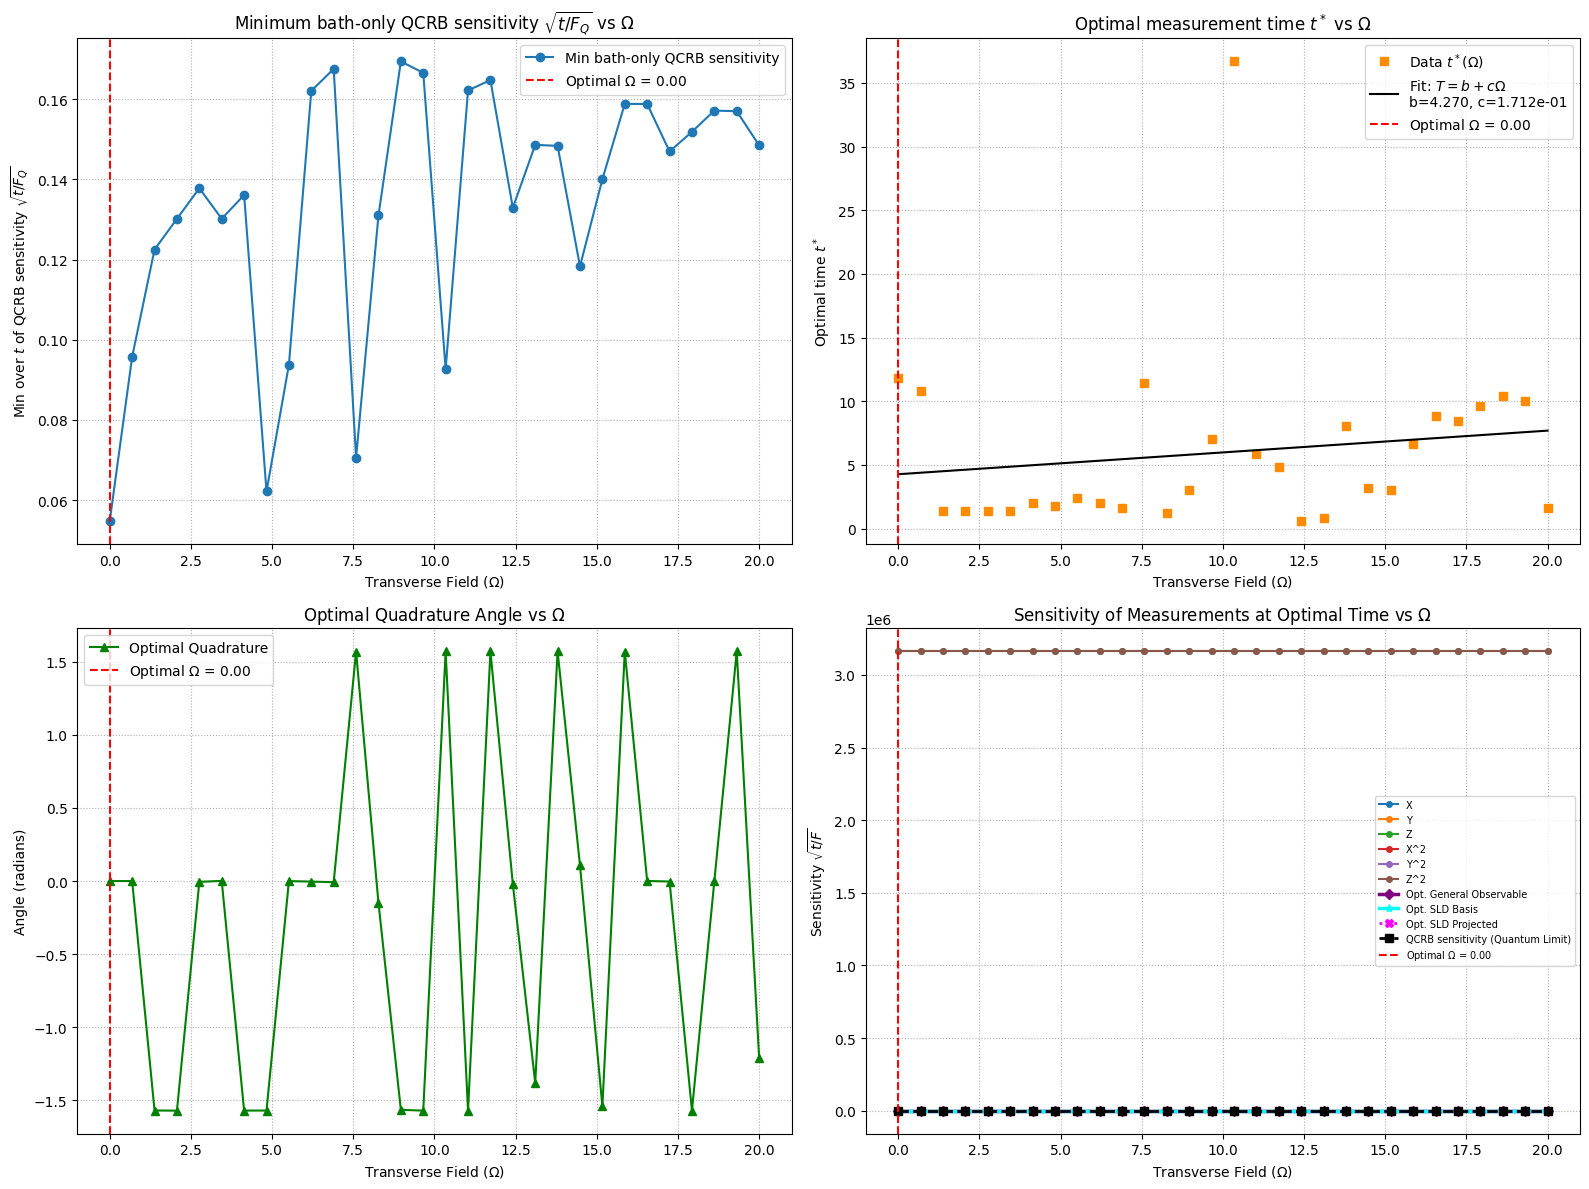
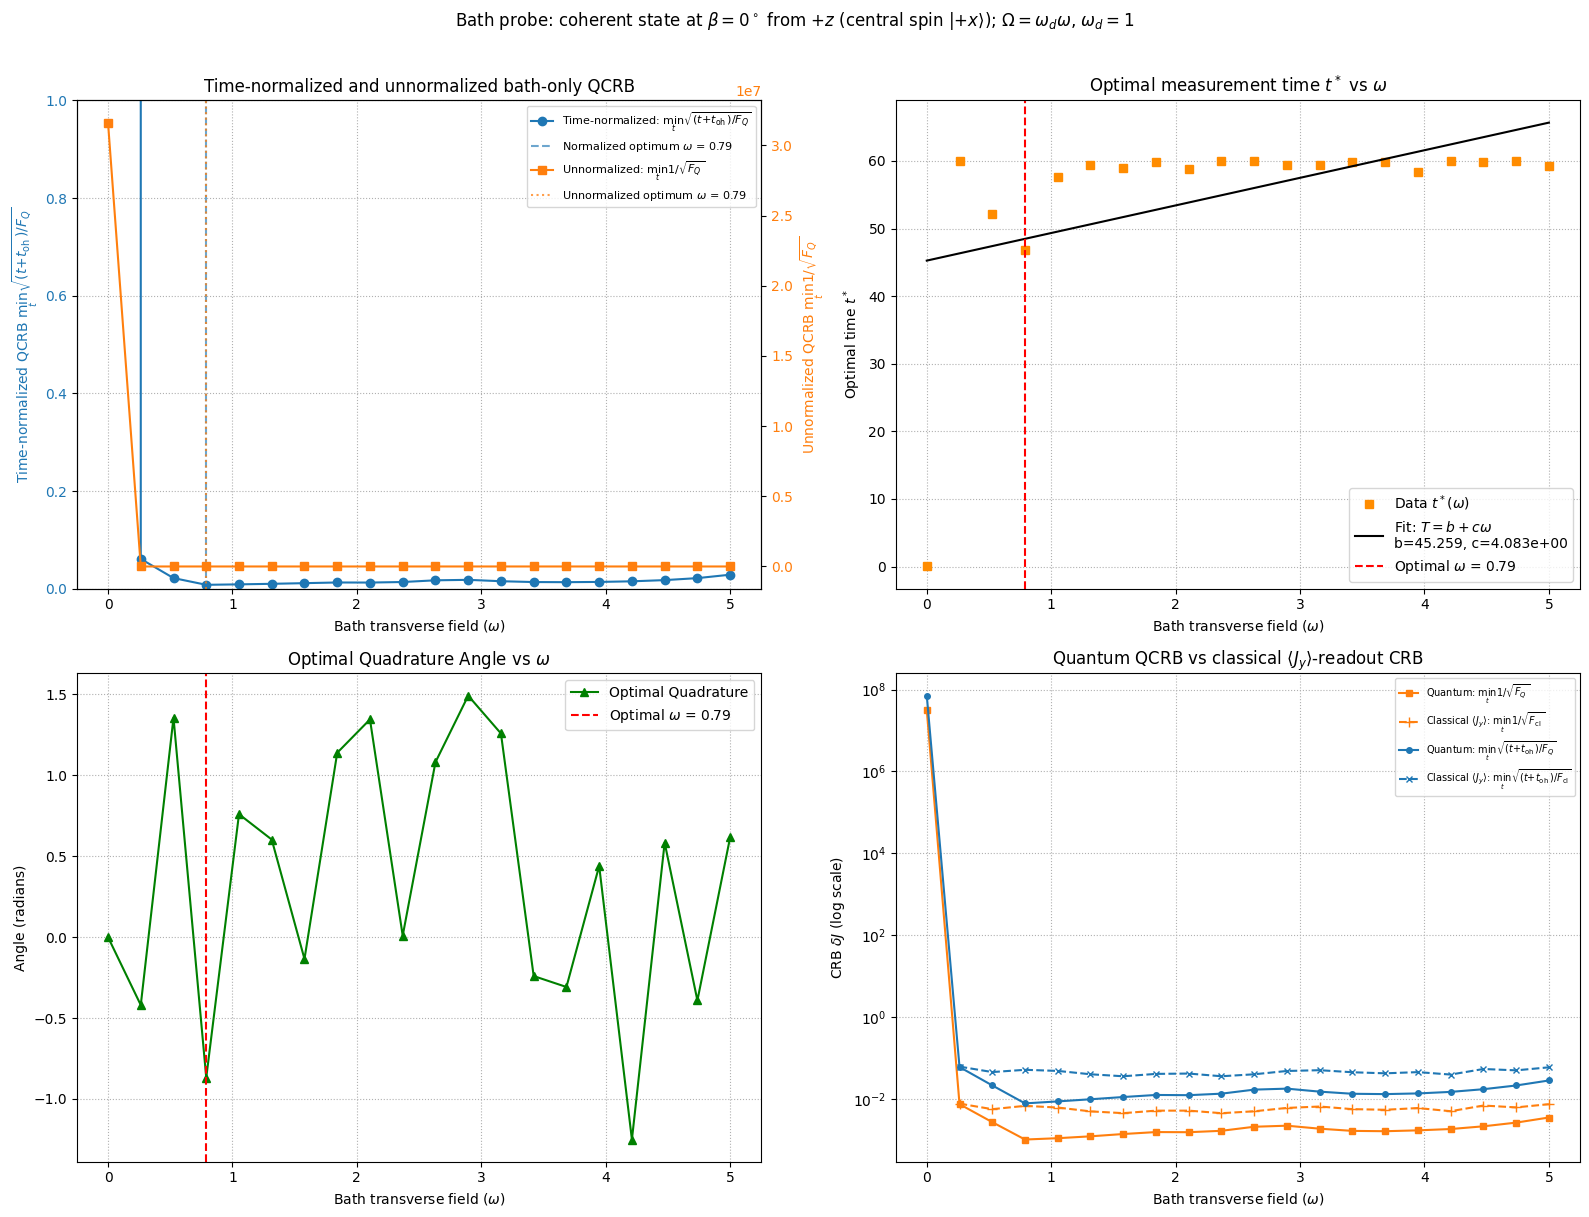
8/5/26

diff --git a/CRB/Analysis_of_analyitical_dicky.py b/CRB/Analysis_of_analyitical_dicky.py
@@ -1,4 +1,11 @@
-"""Bath-only QFI analysis for the collective Dicke-like model."""
+"""Bath-only QFI analysis for the collective Dicke-like model.
+
+The Hamiltonian is
+
+    H = Omega * sigma_x + J * sigma_z * S_z + omega * S_x,
+
+with ``Omega = omega_d * omega`` in this analysis.
+"""
 
 from dataclasses import dataclass
 
@@ -50,21 +57,22 @@ class SimulationConfig(BaseSimulationConfig):
     """
 
     # --- System size and central-spin noise (inherited defaults surfaced) ---
-    N: int = 10            # number of bath spins (bath Hilbert dim = N + 1)
+    N: int = 20            # number of bath spins (bath Hilbert dim = N + 1)
     gamma: float = 0.0    # central-spin sigma_z DEPHASING rate
     beta: float = 0.0     # central-spin sigma_x BIT-FLIP rate -- this is NOISE,
     #                       not the probe angle.  Set to 0.0 for a noiseless run.
 
-    # --- Transverse-drive (Omega_0) sweep ---
+    # --- Bath transverse-drive sweep and central/bath drive ratio ---
+    omega_d: float = 1.0  # Omega / omega; Omega = omega_d * omega
     omega_min: float = 0.0
-    omega_max: float = 40.0
+    omega_max: float = 5.0
     n_omegas: int = 20
 
     # --- Initial bath probe angle ---
     # Spin-N/2 coherent state at polar angle probe_beta_deg from +z (the paper's
     # angle beta; 90 deg = equatorial +x, the prior default).  The central spin
     # stays in |+x>; only the bath is tilted.  THIS field is the probe-angle knob.
-    probe_beta_deg: float = 45.0
+    probe_beta_deg: float = 0
 
     output_figure: str = "bath_only_qfi_analysis.png"
 
@@ -80,6 +88,7 @@ def plot_qfi_results(
     opt_quadrature_angles: np.ndarray,
     output_figure: str,
     probe_beta_deg: float,
+    omega_d: float,
 ) -> None:
     """Plot QCRB minima, optimal times, and optimal quadrature angles."""
     optimal_idx = int(np.argmin(min_qcrb_per_omega))
@@ -105,9 +114,9 @@ def plot_qfi_results(
         linestyle="--",
         color="tab:blue",
         alpha=0.65,
-        label=rf"Normalized optimum $\Omega$ = {optimal_omega:.2f}",
+        label=rf"Normalized optimum $\omega$ = {optimal_omega:.2f}",
     )
-    axes[0].set_xlabel(r"Transverse Field ($\Omega$)")
+    axes[0].set_xlabel(r"Bath transverse field ($\omega$)")
     axes[0].set_ylabel(
         r"Time-normalized QCRB $\min_t\sqrt{(t+t_{\mathrm{oh}})/F_Q}$",
         color="tab:blue",
@@ -129,7 +138,7 @@ def plot_qfi_results(
         color="tab:orange",
         alpha=0.75,
         label=(
-            rf"Unnormalized optimum $\Omega$ = "
+            rf"Unnormalized optimum $\omega$ = "
             f"{unnormalized_optimal_omega:.2f}"
         ),
     )
@@ -152,6 +161,8 @@ def plot_qfi_results(
         [handle.get_label() for handle in first_panel_handles],
         fontsize=8,
     )
+    axes[0].set_ylim(0.0, 1.0)
+
 
     axes[1].plot(
         omega_list,
@@ -159,7 +170,7 @@ def plot_qfi_results(
         marker="s",
         linestyle="",
         color="darkorange",
-        label=r"Data $t^*(\Omega)$",
+        label=r"Data $t^*(\omega)$",
     )
 
     def fit_func(omega: np.ndarray, intercept: float, slope: float) -> np.ndarray:
@@ -181,7 +192,7 @@ def plot_qfi_results(
             linestyle="-",
             color="black",
             label=(
-                r"Fit: $T=b+c\Omega$"
+                r"Fit: $T=b+c\omega$"
                 + "\n"
                 + f"b={intercept:.3f}, c={slope:.3e}"
             ),
@@ -193,11 +204,11 @@ def plot_qfi_results(
         optimal_omega,
         color="red",
         linestyle="--",
-        label=rf"Optimal $\Omega$ = {optimal_omega:.2f}",
+        label=rf"Optimal $\omega$ = {optimal_omega:.2f}",
     )
-    axes[1].set_xlabel(r"Transverse Field ($\Omega$)")
+    axes[1].set_xlabel(r"Bath transverse field ($\omega$)")
     axes[1].set_ylabel(r"Optimal time $t^*$")
-    axes[1].set_title(r"Optimal measurement time $t^*$ vs $\Omega$")
+    axes[1].set_title(r"Optimal measurement time $t^*$ vs $\omega$")
     axes[1].grid(True, linestyle=":")
     axes[1].legend()
 
@@ -213,11 +224,11 @@ def plot_qfi_results(
         optimal_omega,
         color="red",
         linestyle="--",
-        label=rf"Optimal $\Omega$ = {optimal_omega:.2f}",
+        label=rf"Optimal $\omega$ = {optimal_omega:.2f}",
     )
-    axes[2].set_xlabel(r"Transverse Field ($\Omega$)")
+    axes[2].set_xlabel(r"Bath transverse field ($\omega$)")
     axes[2].set_ylabel("Angle (radians)")
-    axes[2].set_title(r"Optimal Quadrature Angle vs $\Omega$")
+    axes[2].set_title(r"Optimal Quadrature Angle vs $\omega$")
     axes[2].grid(True, linestyle=":")
     axes[2].legend()
 
@@ -261,7 +272,7 @@ def plot_qfi_results(
         color="tab:blue",
         label=r"Classical $\langle J_y\rangle$: $\min_t\sqrt{(t+t_{\mathrm{oh}})/F_{\mathrm{cl}}}$",
     )
-    axes[3].set_xlabel(r"Transverse Field ($\Omega$)")
+    axes[3].set_xlabel(r"Bath transverse field ($\omega$)")
     axes[3].set_ylabel(r"CRB $\delta J$ (log scale)")
     axes[3].set_title(
         r"Quantum QCRB vs classical $\langle J_y\rangle$-readout CRB"
@@ -271,7 +282,8 @@ def plot_qfi_results(
 
     fig.suptitle(
         rf"Bath probe: coherent state at $\beta={probe_beta_deg:g}^\circ$ "
-        r"from $+z$ (central spin $|{+}x\rangle$)",
+        r"from $+z$ (central spin $|{+}x\rangle$); "
+        rf"$\Omega=\omega_d\omega$, $\omega_d={omega_d:g}$",
         y=1.01,
     )
     plt.tight_layout()
@@ -298,10 +310,15 @@ def main() -> None:
         f"Initial bath probe: coherent state at beta={cfg.probe_beta_deg:g} deg "
         "from +z (central spin |+x>)"
     )
-    print(f"Computing bath-only QFI for {len(omega_list)} values of Omega_0...")
-    for index, Omega_0 in enumerate(omega_list):
+    print(
+        "Computing bath-only QFI for "
+        f"{len(omega_list)} values of omega with "
+        f"Omega = omega_d * omega (omega_d={cfg.omega_d:g})..."
+    )
+    for index, omega in enumerate(omega_list):
+        Omega_0 = cfg.omega_d * omega
         if (index + 1) % 5 == 0 or index == 0:
-            print(f"Processed {index + 1}/{len(omega_list)} Omega_0 values")
+            print(f"Processed {index + 1}/{len(omega_list)} omega values")
 
         bath_rhos_plus = get_bath_density_matrices(
             Omega_0=Omega_0,
@@ -311,6 +328,7 @@ def main() -> None:
             gamma=cfg.gamma,
             beta=cfg.beta,
             bath_state=probe_state,
+            omega=omega,
         )
         bath_rhos_minus = get_bath_density_matrices(
             Omega_0=Omega_0,
@@ -320,6 +338,7 @@ def main() -> None:
             gamma=cfg.gamma,
             beta=cfg.beta,
             bath_state=probe_state,
+            omega=omega,
         )
         qfi_t, sld_t, rho_t, drho_t = compute_bath_qfi_trajectory(
             bath_rhos_plus=bath_rhos_plus,
@@ -389,7 +408,7 @@ def main() -> None:
         opt_quadrature_angles[index] = 0.5 * np.arctan2(cyz, cy2z2)
 
     print("\nDone.")
-    print(f"Optimal Omega_0 (bath-only QFI criterion): {optimal_omega:.6f}")
+    print(f"Optimal omega (bath-only QFI criterion): {optimal_omega:.6f}")
     print(
         "Minimum bath-only QCRB sensitivity: "
         f"{min_qcrb_per_omega[optimal_idx]:.6e}"
@@ -400,18 +419,18 @@ def main() -> None:
     print(
         "Minimum unnormalized bath-only QCRB: "
         f"{min_qcrb_unnormalized_per_omega[unnormalized_optimal_idx]:.6e} "
-        f"at Omega_0={omega_list[unnormalized_optimal_idx]:.6f}"
+        f"at omega={omega_list[unnormalized_optimal_idx]:.6f}"
     )
-    print(f"Optimal time at best Omega_0: {optimal_times[optimal_idx]:.6f}")
+    print(f"Optimal time at best omega: {optimal_times[optimal_idx]:.6f}")
 
     if np.all(np.isnan(min_ccrb_unnormalized_per_omega)):
-        print("Classical <Jy> readout: no J-signal at any swept Omega_0.")
+        print("Classical <Jy> readout: no J-signal at any swept omega.")
     else:
         best_cl_idx = int(np.nanargmin(min_ccrb_unnormalized_per_omega))
         print(
             "Best classical <Jy>-readout CRB (unnormalized): "
             f"{min_ccrb_unnormalized_per_omega[best_cl_idx]:.6e} "
-            f"at Omega_0={omega_list[best_cl_idx]:.6f} "
+            f"at omega={omega_list[best_cl_idx]:.6f} "
             f"(quantum there: {min_qcrb_unnormalized_per_omega[best_cl_idx]:.6e})"
         )
 
@@ -426,6 +445,7 @@ def main() -> None:
         opt_quadrature_angles=opt_quadrature_angles,
         output_figure=cfg.output_figure,
         probe_beta_deg=cfg.probe_beta_deg,
+        omega_d=cfg.omega_d,
     )
 
 

diff --git a/CRB/crb_core.py b/CRB/crb_core.py
@@ -3,9 +3,10 @@
 The exact solver in this module uses the symmetric bath subspace and the
 Hamiltonian convention
 
-    H = Omega_0 * sigma_x + J * sigma_z * S_z,
+    H = Omega_0 * sigma_x + J * sigma_z * S_z + omega * S_x,
 
-where ``S_z = 2 * jmat(N / 2, "z")``.  Keeping that convention explicit is
+where ``S_{x,z} = 2 * jmat(N / 2, "x,z")``.  The bath drive ``omega`` defaults
+to zero for backward compatibility.  Keeping that convention explicit is
 important when comparing these helpers with scripts that use a factor of one
 half in either the drive or collective-spin operators.
 """
@@ -55,6 +56,7 @@ def build_spin_operators(N: int) -> dict[str, object]:
 
     S_spin = N / 2.0
     dim_bath = N + 1
+    Jx = 2.0 * qt.jmat(S_spin, "x")
     Jz = 2.0 * qt.jmat(S_spin, "z")
     I_bath = qt.qeye(dim_bath)
 
@@ -65,6 +67,7 @@ def build_spin_operators(N: int) -> dict[str, object]:
     return {
         "S_spin": S_spin,
         "dim_bath": dim_bath,
+        "Jx": Jx,
         "Jz": Jz,
         "I_bath": I_bath,
         "sx": sx,
@@ -72,6 +75,7 @@ def build_spin_operators(N: int) -> dict[str, object]:
         "si": si,
         "sx_s": qt.tensor(sx, I_bath),
         "sz_s": qt.tensor(sz, I_bath),
+        "Sx_op": qt.tensor(si, Jx),
         "Sz_op": qt.tensor(si, Jz),
     }
 
@@ -83,12 +87,18 @@ def build_initial_state(S_spin: float) -> qt.Qobj:
     return qt.tensor(plus_state_central, plus_state_bath)
 
 
-def build_hamiltonian(Omega_0: float, J: float, N: int) -> qt.Qobj:
-    """Return ``Omega_0 sigma_x + J sigma_z S_z`` in the symmetric subspace."""
+def build_hamiltonian(
+    Omega_0: float,
+    J: float,
+    N: int,
+    omega: float = 0.0,
+) -> qt.Qobj:
+    """Return ``Omega_0 sigma_x + J sigma_z S_z + omega S_x``."""
     operators = build_spin_operators(N)
     return (
         Omega_0 * operators["sx_s"]
         + J * operators["sz_s"] * operators["Sz_op"]
+        + omega * operators["Sx_op"]
     )
 
 
@@ -154,12 +164,15 @@ def get_bath_density_matrices(
     gamma: float = 1.0,
     beta: float = 1.0,
     bath_state: np.ndarray | None = None,
+    omega: float = 0.0,
 ) -> list[np.ndarray]:
     """Evolve and return ``rho_B(t) = Tr_central[rho(t)]``.
 
-    Each bath coherence closes on a four-dimensional central-spin block.  The
-    resulting independent constant-coefficient Liouvillians are solved by
-    eigendecomposition, avoiding construction of the full superoperator.
+    With ``omega = 0``, each bath coherence closes on a four-dimensional
+    central-spin block.  The resulting independent constant-coefficient
+    Liouvillians are solved by eigendecomposition.  A nonzero ``omega * S_x``
+    couples those blocks, so the evolution is performed in the full
+    central-spin times symmetric-bath space instead.
 
     The initial state is ``|+x>_central (x) bath_state``, where ``bath_state``
     defaults to the ``+x`` spin coherent state used by the legacy analyses.
@@ -185,6 +198,48 @@ def get_bath_density_matrices(
                 f"bath_state must have dimension N + 1 = {dim_bath}, "
                 f"got {chi.shape[0]}"
             )
+
+    if omega != 0.0:
+        if np.any(times < 0.0) or np.any(np.diff(times) < 0.0):
+            raise ValueError(
+                "tlist must be non-negative and increasing when omega is nonzero"
+            )
+        if len(times) == 0:
+            return []
+
+        operators = build_spin_operators(N)
+        hamiltonian = build_hamiltonian(
+            Omega_0=Omega_0,
+            J=J,
+            N=N,
+            omega=omega,
+        )
+        plus_state_central = (qt.basis(2, 0) + qt.basis(2, 1)).unit()
+        bath_ket = qt.Qobj(chi, dims=[[dim_bath], [1]])
+        initial_state = qt.tensor(plus_state_central, bath_ket)
+
+        collapse_operators = []
+        if beta > 0.0:
+            collapse_operators.append(np.sqrt(beta) * operators["sx_s"])
+        if gamma > 0.0:
+            collapse_operators.append(np.sqrt(gamma) * operators["sz_s"])
+
+        # QuTiP treats the first entry of tlist as the initial time.  Prepending
+        # zero preserves the API's convention that every requested time is
+        # measured from the supplied initial state, even when tlist starts later.
+        prepend_zero = times[0] > 0.0
+        solver_times = (
+            np.concatenate(([0.0], times)) if prepend_zero else times
+        )
+        result = qt.mesolve(
+            hamiltonian,
+            initial_state,
+            solver_times,
+            c_ops=collapse_operators,
+            e_ops=[],
+        )
+        states = result.states[1:] if prepend_zero else result.states
+        return [state.ptrace(1).full() for state in states]
 
     sx = np.array([[0.0, 1.0], [1.0, 0.0]], dtype=complex)
     sz = np.array([[1.0, 0.0], [0.0, -1.0]], dtype=complex)
